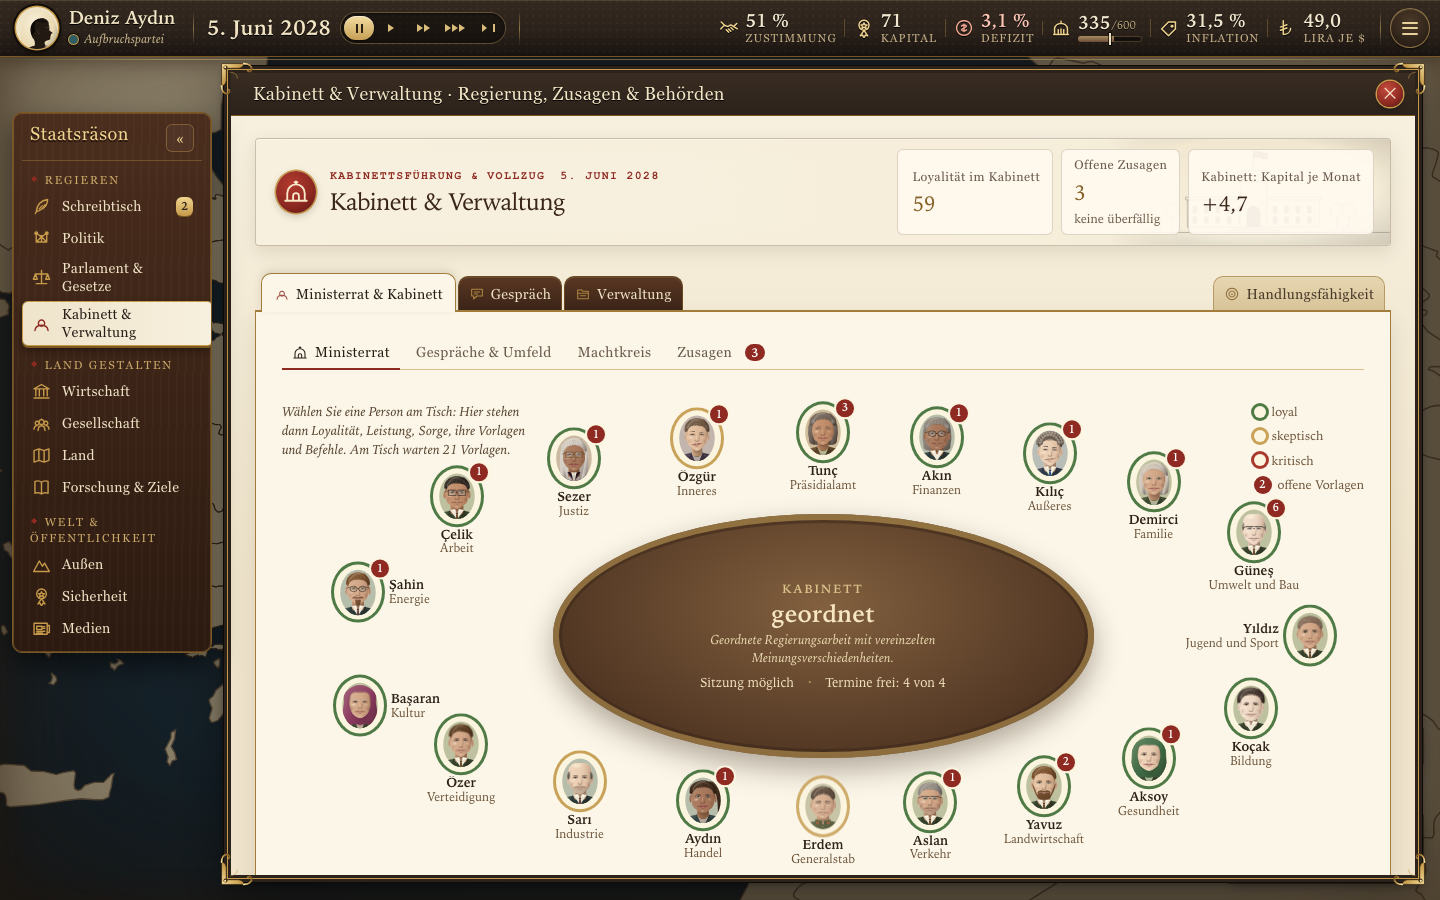
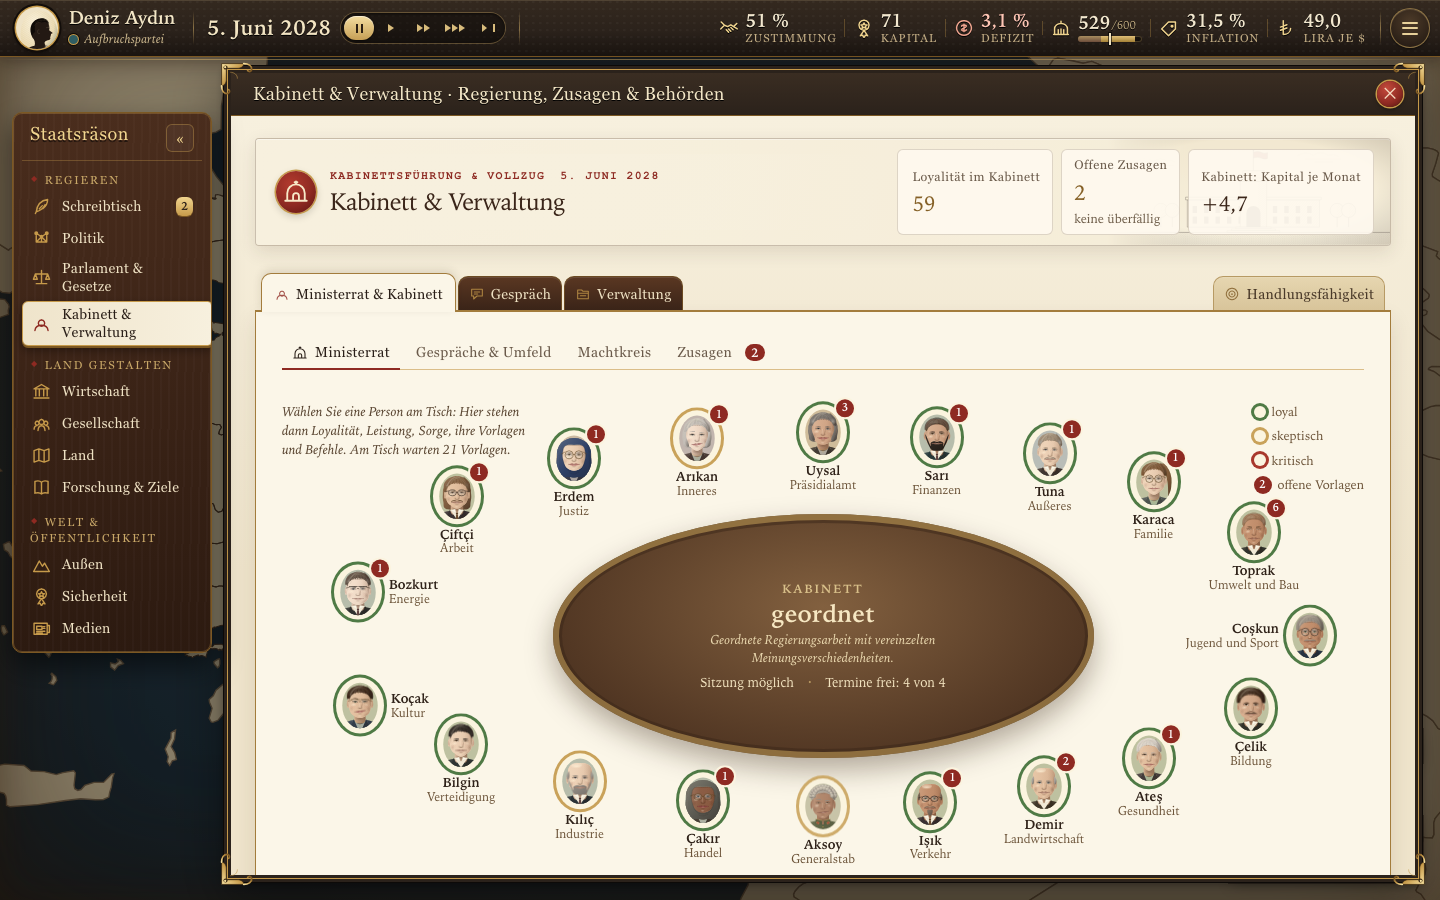
Kabinett: Sorge wie im Gespräch, Anzüge aus dem Gesicht, keine Namen amtierender Minister
- C-7: Die Ressortsorge am Tisch nimmt dieselbe Größe wie das Gespräch (HOCH_SCHLECHT für alle
  Ressorts); „Wartezeiten 45“ ist keine Sorge mehr, wenn niedrig gut ist.
- C-14 (bis gemalte Porträts kommen): Anzugfarbe aus dem Samen statt aus dem Lager (vorher
  zehn gleiche olivgrüne Anzüge), Lager nur als Hauch und Hintergrund; Robe nur für Richter.
- C-30: „Tunç“ und „Güler“ (Justiz- und Verteidigungsminister 2025) durch „Tuna“ und „Gündüz“
  ersetzt, an derselben Stelle der Liste (gleicher Zufallsstrom, alte Spielstände unberührt).
- Türkisch: „Bakanlar Kurulu“ (seit 2018 abgeschafft) → „Kabine“ in Reiter, Vorlagen und Kabinettstexten.
- Test portraet: Beffchen beim Richter statt beim Justizministerium (gewollt, C-14).

Claude-Session: https://claude.ai/code/session_015tmx9syU1rT4V5iV7G2WLd

diff --git a/game/src/sim/kabinett.ts b/game/src/sim/kabinett.ts
@@ -9,7 +9,7 @@ import { nationalAverage } from "./netz";
 import { wirke, vertrauenAendern } from "./wirkung";
 import { addLog } from "./log";
 import { clamp } from "./economy";
-import { AEMTER, eigenVon, grollVerschieben, leistung, loyalitaetVerschieben, merke, schlechtesteGroesse, wertVon, nf } from "./personen";
+import { AEMTER, HOCH_SCHLECHT, eigenVon, grollVerschieben, leistung, loyalitaetVerschieben, merke, schlechtesteGroesse, wertVon, nf } from "./personen";
 import { LAGER_NAMEN, type LagerArt } from "./personen-typen";
 import { Rng } from "./rng";
 import { kannZahlen } from "./kapital";
@@ -123,27 +123,26 @@ export function berechneMinisterKapital(w: World, f: Figur): { beitrag: number; 
   return { beitrag, grund };
 }
 
-/** Ermittelt die dringendste Sorge eines Ministers aus den Kennzahlen seines Fachbereichs */
+/** Die dringendste Sorge eines Ministers: dieselbe Größe wie im Gespräch (schlechtesteGroesse mit HOCH_SCHLECHT für alle Ressorts).
+ *  Befund C-7: Vorher galt eine eigene Liste mit sieben Größen; „Streikbereitschaft 35“ oder „Wartezeiten 45“ erschienen als Sorge, obwohl niedrig gut ist. */
 export function sorgeAusFach(w: World, f: Figur): string {
-  const d = AEMTER[f.amt];
-  if (!d.fach.length) return t("kab.keineKrise");
-  let schlimmsterWert = -1e9;
-  let sorgeKnoten = d.fach[0]!;
-
-  for (const id of d.fach) {
-    const val = wertVon(w, id);
-    // Bei hoch_schlecht ist ein hoher Wert eine Sorge, sonst ein niedriger
-    const isBadHigh = ["kriminalitaet", "terrorgefahr", "korruption", "haftueberfuellung", "zinslast", "lebenshaltung", "polarisierung"].includes(id);
-    const score = isBadHigh ? val : 100 - val;
-    if (score > schlimmsterWert) {
-      schlimmsterWert = score;
-      sorgeKnoten = id;
+  // Gleiche Wahl wie schlechtesteGroesse (erste schlechteste Größe), aber ohne Namen für jede Größe: kabinettStatus läuft oft
+  let id: string | undefined;
+  let wert = 0;
+  let schlimm = -Infinity;
+  for (const x of AEMTER[f.amt].fach) {
+    if (!NET.index.has(x)) continue;
+    const v = wertVon(w, x);
+    const s = HOCH_SCHLECHT.has(x) ? v : 100 - v;
+    if (s > schlimm) {
+      schlimm = s;
+      id = x;
+      wert = v;
     }
   }
-
-  const name = NET.nodes[NET.index.get(sorgeKnoten) ?? -1]?.name ?? sorgeKnoten;
-  const wert = Math.round(wertVon(w, sorgeKnoten));
-  return t("kab.sorge", { name, wert });
+  if (!id) return t("kab.keineKrise");
+  const name = NET.nodes[NET.index.get(id)!]?.name ?? id;
+  return t("kab.sorge", { name, wert: Math.round(wert) });
 }
 
 /** Gibt den vollständigen Zustand des Ministerrats zurück */

diff --git a/game/src/ui/art/portraet-kleidung.tsx b/game/src/ui/art/portraet-kleidung.tsx
@@ -7,9 +7,14 @@ import { dunkler, f, hash, heller, mische, type Auswahl } from "./portraet-kern"
 
 export type Kleidungsart = "anzug" | "uniform" | "robe";
 
+/** Befund C-14 (N1): Die Robe trägt nur, wer Richter ist; die Justizministerin trägt Anzug wie das übrige Kabinett. */
 export function kleidungsart(rolle: string | undefined): Kleidungsart {
-  return rolle === "generalstab" ? "uniform" : rolle === "justiz" ? "robe" : "anzug";
+  return rolle === "generalstab" ? "uniform" : rolle === "richter" ? "robe" : "anzug";
 }
+
+/** Anzugstoffe: Die Farbe kommt aus dem Gesicht (Samen), nicht aus dem Lager. Vorher trugen zehn von neunzehn denselben olivgrünen Anzug,
+ *  weil zehn Ressorts das Lager „Partei“ haben. Das Lager klingt nur noch leicht an (Hintergrund und ein Hauch im Stoff). */
+const ANZUG_STOFFE = ["#2e3236", "#25304a", "#46362a", "#4a4c51", "#33302d", "#2b3a3a", "#3d2f36"];
 
 export interface KleidungsTeile {
   /** Körper (Jackett, Robe, Uniform): vor dem Hals gezeichnet */
@@ -26,8 +31,9 @@ export function kleidung(a: Auswahl, rolle: string | undefined, tint: string, ui
   const nh = rs.halsBreite / 2;
   const sh = rs.schulterBreite / 2;
   const y0 = rs.kinnY + 7;
+  const stoff = ANZUG_STOFFE[hash(`${a.haut}|${a.stoff}|${a.tonIdx}|${rs.kinnY}|${a.alter}`) % ANZUG_STOFFE.length]!;
   const farbe =
-    art === "uniform" ? mische("#4a5230", tint, 0.18) : art === "robe" ? "#241f26" : a.geschlecht === "f" ? dunkler(mische(tint, "#4a3d36", 0.45), 0.08) : dunkler(mische(tint, "#3a342f", 0.55), 0.12);
+    art === "uniform" ? mische("#4a5230", tint, 0.18) : art === "robe" ? "#241f26" : a.geschlecht === "f" ? heller(mische(stoff, tint, 0.12), 0.06) : mische(stoff, tint, 0.1);
   const lichtF = heller(farbe, 0.18);
   const dunkelF = dunkler(farbe, 0.4);
   const koerper = `M${f(50 - sh * 1.15)} 150 L${f(50 - sh * 1.0)} ${f(y0 + 25)} C${f(50 - sh * 0.82)} ${f(y0 + 10)} ${f(50 - sh * 0.5)} ${f(y0 + 3)} ${f(50 - nh - 3)} ${f(y0 - 1)} L${f(50 + nh + 3)} ${f(y0 - 1)} C${f(50 + sh * 0.5)} ${f(y0 + 3)} ${f(50 + sh * 0.82)} ${f(y0 + 10)} ${f(50 + sh * 1.0)} ${f(y0 + 25)} L${f(50 + sh * 1.15)} 150 Z`;
@@ -157,7 +163,7 @@ export function Hintergrund({ rolle, tint, uid }: { rolle: string | undefined; t
   );
   let motiv: ReactNode;
   let g: ReactNode;
-  switch (rolle) {
+  switch (rolle === "richter" ? "justiz" : rolle) {
     case "finanzen": {
       g = grund("#e3ecd2", "#7f9a6e");
       motiv = (

diff --git a/game/src/sim/figuren.ts b/game/src/sim/figuren.ts
@@ -20,7 +20,7 @@ const VORNAMEN_F = ["Selin", "Derya", "Zeynep", "Nilay", "Melis", "Pınar", "Giz
   "Elif", "Merve", "Esra", "Burcu", "Tuğba", "Özlem", "Seda", "Gülay", "Canan", "Ece"];
 const VORNAMEN_M = ["Kaan", "Barış", "Emre", "Tolga", "Volkan", "Onur", "Serkan", "Levent", "Murat", "Cengiz", "Orhan", "Taner", "Cem", "Burak", "Mert",
   "Hakan", "Kerem", "Selim", "Okan", "Ercan", "Sinan", "Erkan", "Uğur", "İlker", "Bülent", "Doruk", "Alper", "Tarık", "Koray", "Engin"];
-const NACHNAMEN = ["Yücel", "Karaca", "Erdem", "Aksoy", "Kılıç", "Tunç", "Arıkan", "Özgür", "Bozkurt", "Çelik", "Sarı", "Koçak", "Ateş", "Işık", "Uysal", "Yalçın", "Duran", "Güler", "Polat", "Demirci", "Kaplan", "Sezer", "Turan", "Akın",
+const NACHNAMEN = ["Yücel", "Karaca", "Erdem", "Aksoy", "Kılıç", "Tuna", "Arıkan", "Özgür", "Bozkurt", "Çelik", "Sarı", "Koçak", "Ateş", "Işık", "Uysal", "Yalçın", "Duran", "Gündüz", "Polat", "Demirci", "Kaplan", "Sezer", "Turan", "Akın",
   "Kaya", "Demir", "Şahin", "Yıldız", "Yıldırım", "Öztürk", "Aydın", "Özdemir", "Arslan", "Doğan", "Aslan", "Çetin", "Kara", "Koç", "Kurt", "Özkan", "Çakır", "Güneş", "Aktaş", "Bulut",
   "Keskin", "Ünal", "Avcı", "Taş", "Özer", "Korkmaz", "Çiftçi", "Acar", "Altun", "Kalkan", "Gök", "Yavuz", "Ekinci", "Sönmez", "Toprak", "Güven", "Coşkun", "Bilgin", "Akbulut", "Başaran"];
 /** Die alten Listenlängen (Vornamen je 15, Nachnamen 24) für die Figuren des Amtsantritts von vor dem Umbau. */

diff --git a/game/test/portraet.test.tsx b/game/test/portraet.test.tsx
@@ -179,7 +179,9 @@ describe("Brille, Bart, Kopftuch, Größen", () => {
     const bilder = new Set(rollen.map((r) => rein({ seed: "Rolle", geschlecht: "m", alter: 50, rolle: r, size: 160 })));
     expect(bilder.size).toBe(rollen.length);
     expect(rein({ seed: "Rolle", geschlecht: "m", alter: 50, rolle: "generalstab", size: 160 })).toContain("#a02a22"); // Kragenspiegel
-    expect(rein({ seed: "Rolle", geschlecht: "m", alter: 50, rolle: "justiz", size: 160 })).toContain("#f3eee2"); // Beffchen
+    // Befund C-14 (Nacht N1): Die Robe mit Beffchen trägt nur ein Richter; das Justizministerium trägt Anzug
+    expect(rein({ seed: "Rolle", geschlecht: "m", alter: 50, rolle: "richter", size: 160 })).toContain("#f3eee2"); // Beffchen
+    expect(rein({ seed: "Rolle", geschlecht: "m", alter: 50, rolle: "justiz", size: 160 })).not.toContain("#f3eee2");
     expect(rein({ seed: "Rolle", geschlecht: "m", alter: 50, rolle: "stab", size: 160 })).not.toContain("#a02a22");
   });
 

diff --git a/game/src/ui/personen/Machtkreis.tsx b/game/src/ui/personen/Machtkreis.tsx
@@ -25,7 +25,7 @@ import { Balken, Gesicht, LAGER_FARBE, tonVon } from "./bausteine";
 import "./machtkreis.css";
 
 /** Kleidung des Porträts für Nebenfiguren (das Porträtsystem kennt die Ämter des Spiels als Rollen). */
-const KLEIDUNG: Record<string, string> = { kronprinz: "partner", fraktionschef: "partner", journalist: "opposition", richter: "justiz" };
+const KLEIDUNG: Record<string, string> = { kronprinz: "partner", fraktionschef: "partner", journalist: "opposition", richter: "richter" };
 
 const REIHENFOLGE = ["stab", "finanzen", "wirtschaft", "aussen", "inneres", "justiz", "generalstab", "zentralbank", "partner", "kronprinz", "fraktionschef", "richter", "journalist", "opposition"];
 
